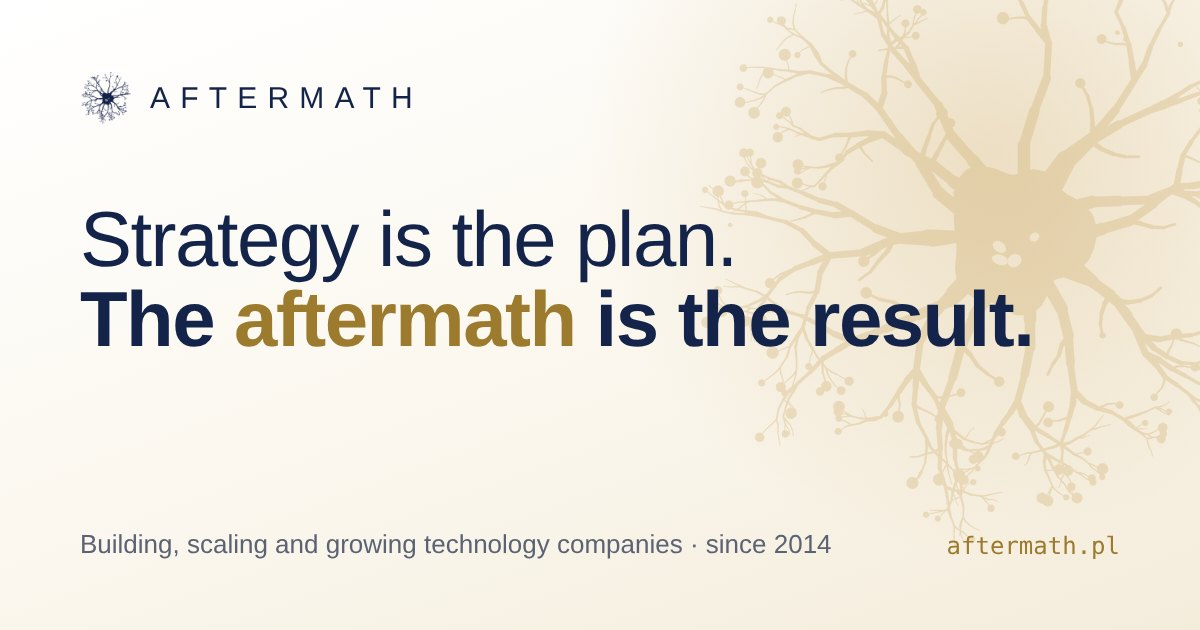
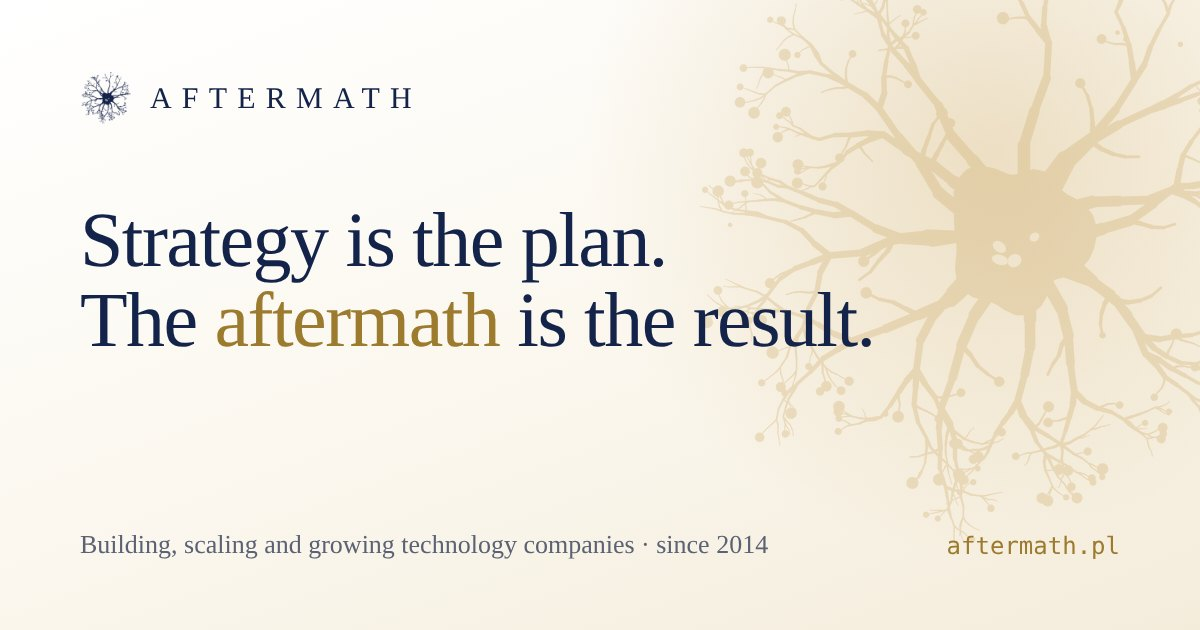
Podstrony i typografia Inter Tight

Changed region(s): [[0.0617, 0.3317, 0.8633, 0.573], [0.0617, 0.8444, 0.7092, 0.9048], [0.1233, 0.1206, 0.3392, 0.181]]

diff --git a/public/assets/site.css b/public/assets/site.css
@@ -302,3 +302,22 @@ footer .f-logo img{width:26px;height:26px}
 .article{scroll-margin-top:90px}
 .links a.m-only{display:none}
 @media (max-width:900px){.links a.m-only{display:block;color:var(--navy);font-weight:600}}
+
+/* ===== typography: Inter Tight, regular weights, no heavy display ===== */
+:root{--f-display:"Inter Tight","Helvetica Neue",Arial,system-ui,sans-serif;--f-body:"Inter Tight","Helvetica Neue",Arial,system-ui,sans-serif}
+body{font-size:17px;line-height:1.65;letter-spacing:.005em}
+h1,h2{letter-spacing:-.025em}
+h3{letter-spacing:-.01em}
+.hero h1{font-size:clamp(36px,4.8vw,66px);line-height:1.12;font-weight:400}
+.hero h1 b{font-weight:500}
+.hero h1 em{font-style:normal}
+.sec-head h2,.leader-body h2,.contact h2{font-size:clamp(28px,3.4vw,46px);line-height:1.15;font-weight:400}
+.sec-head h2 b,.leader-body h2 b,.contact h2 b,.page-head h1 b{font-weight:500}
+.page-head h1{font-size:clamp(32px,4.2vw,58px);line-height:1.12;font-weight:400}
+.contact h2 b{display:inline}
+.stat strong{font-weight:400;font-size:clamp(30px,3.4vw,42px)}
+.res strong{font-weight:400}
+.svc h3,.step h3,.princ h3,.post h3,.tile h3,.article h2{font-weight:500}
+.next a{font-weight:400}
+.eyebrow,.svc .tag,.tile small,.res small,.crumbs{font-family:var(--f-body);font-weight:500;letter-spacing:.16em}
+.lede{font-size:18px}

diff --git a/public/approach/index.html b/public/approach/index.html
@@ -18,7 +18,7 @@
 <meta name="twitter:card" content="summary_large_image">
 <link rel="preconnect" href="https://fonts.googleapis.com">
 <link rel="preconnect" href="https://fonts.gstatic.com" crossorigin>
-<link rel="stylesheet" href="https://fonts.googleapis.com/css2?family=Bricolage+Grotesque:opsz,wght@12..96,300;12..96,500;12..96,700;12..96,800&family=IBM+Plex+Sans:wght@400;500;600&family=IBM+Plex+Mono:wght@400;500&display=swap">
+<link rel="stylesheet" href="https://fonts.googleapis.com/css2?family=Inter+Tight:wght@400;500;600&family=IBM+Plex+Mono:wght@400;500&display=swap">
 <script type="application/ld+json">{"@context":"https://schema.org","@type":"ProfessionalService","name":"AFTERMATH","url":"https://aftermath.pl/","foundingDate":"2014","description":"AFTERMATH builds, scales and grows technology companies. Management as a Service, IT and product consulting, negotiations and leadership training.","founder":{"@type":"Person","name":"Adam Bugaj","sameAs":"https://www.linkedin.com/in/adambugaj"},"areaServed":["Europe","Middle East","Asia-Pacific","North America"]}</script>
 <link rel="stylesheet" href="../assets/site.css">
 </head>

diff --git a/public/contact/index.html b/public/contact/index.html
@@ -18,7 +18,7 @@
 <meta name="twitter:card" content="summary_large_image">
 <link rel="preconnect" href="https://fonts.googleapis.com">
 <link rel="preconnect" href="https://fonts.gstatic.com" crossorigin>
-<link rel="stylesheet" href="https://fonts.googleapis.com/css2?family=Bricolage+Grotesque:opsz,wght@12..96,300;12..96,500;12..96,700;12..96,800&family=IBM+Plex+Sans:wght@400;500;600&family=IBM+Plex+Mono:wght@400;500&display=swap">
+<link rel="stylesheet" href="https://fonts.googleapis.com/css2?family=Inter+Tight:wght@400;500;600&family=IBM+Plex+Mono:wght@400;500&display=swap">
 <script type="application/ld+json">{"@context":"https://schema.org","@type":"ProfessionalService","name":"AFTERMATH","url":"https://aftermath.pl/","foundingDate":"2014","description":"AFTERMATH builds, scales and grows technology companies. Management as a Service, IT and product consulting, negotiations and leadership training.","founder":{"@type":"Person","name":"Adam Bugaj","sameAs":"https://www.linkedin.com/in/adambugaj"},"areaServed":["Europe","Middle East","Asia-Pacific","North America"]}</script>
 <link rel="stylesheet" href="../assets/site.css">
 </head>

diff --git a/public/leadership/index.html b/public/leadership/index.html
@@ -18,7 +18,7 @@
 <meta name="twitter:card" content="summary_large_image">
 <link rel="preconnect" href="https://fonts.googleapis.com">
 <link rel="preconnect" href="https://fonts.gstatic.com" crossorigin>
-<link rel="stylesheet" href="https://fonts.googleapis.com/css2?family=Bricolage+Grotesque:opsz,wght@12..96,300;12..96,500;12..96,700;12..96,800&family=IBM+Plex+Sans:wght@400;500;600&family=IBM+Plex+Mono:wght@400;500&display=swap">
+<link rel="stylesheet" href="https://fonts.googleapis.com/css2?family=Inter+Tight:wght@400;500;600&family=IBM+Plex+Mono:wght@400;500&display=swap">
 <script type="application/ld+json">{"@context":"https://schema.org","@type":"ProfessionalService","name":"AFTERMATH","url":"https://aftermath.pl/","foundingDate":"2014","description":"AFTERMATH builds, scales and grows technology companies. Management as a Service, IT and product consulting, negotiations and leadership training.","founder":{"@type":"Person","name":"Adam Bugaj","sameAs":"https://www.linkedin.com/in/adambugaj"},"areaServed":["Europe","Middle East","Asia-Pacific","North America"]}</script>
 <link rel="stylesheet" href="../assets/site.css">
 </head>

diff --git a/public/news/index.html b/public/news/index.html
@@ -18,7 +18,7 @@
 <meta name="twitter:card" content="summary_large_image">
 <link rel="preconnect" href="https://fonts.googleapis.com">
 <link rel="preconnect" href="https://fonts.gstatic.com" crossorigin>
-<link rel="stylesheet" href="https://fonts.googleapis.com/css2?family=Bricolage+Grotesque:opsz,wght@12..96,300;12..96,500;12..96,700;12..96,800&family=IBM+Plex+Sans:wght@400;500;600&family=IBM+Plex+Mono:wght@400;500&display=swap">
+<link rel="stylesheet" href="https://fonts.googleapis.com/css2?family=Inter+Tight:wght@400;500;600&family=IBM+Plex+Mono:wght@400;500&display=swap">
 <script type="application/ld+json">{"@context":"https://schema.org","@type":"ProfessionalService","name":"AFTERMATH","url":"https://aftermath.pl/","foundingDate":"2014","description":"AFTERMATH builds, scales and grows technology companies. Management as a Service, IT and product consulting, negotiations and leadership training.","founder":{"@type":"Person","name":"Adam Bugaj","sameAs":"https://www.linkedin.com/in/adambugaj"},"areaServed":["Europe","Middle East","Asia-Pacific","North America"]}</script>
 <link rel="stylesheet" href="../assets/site.css">
 </head>

diff --git a/public/services/index.html b/public/services/index.html
@@ -18,7 +18,7 @@
 <meta name="twitter:card" content="summary_large_image">
 <link rel="preconnect" href="https://fonts.googleapis.com">
 <link rel="preconnect" href="https://fonts.gstatic.com" crossorigin>
-<link rel="stylesheet" href="https://fonts.googleapis.com/css2?family=Bricolage+Grotesque:opsz,wght@12..96,300;12..96,500;12..96,700;12..96,800&family=IBM+Plex+Sans:wght@400;500;600&family=IBM+Plex+Mono:wght@400;500&display=swap">
+<link rel="stylesheet" href="https://fonts.googleapis.com/css2?family=Inter+Tight:wght@400;500;600&family=IBM+Plex+Mono:wght@400;500&display=swap">
 <script type="application/ld+json">{"@context":"https://schema.org","@type":"ProfessionalService","name":"AFTERMATH","url":"https://aftermath.pl/","foundingDate":"2014","description":"AFTERMATH builds, scales and grows technology companies. Management as a Service, IT and product consulting, negotiations and leadership training.","founder":{"@type":"Person","name":"Adam Bugaj","sameAs":"https://www.linkedin.com/in/adambugaj"},"areaServed":["Europe","Middle East","Asia-Pacific","North America"]}</script>
 <link rel="stylesheet" href="../assets/site.css">
 </head>

diff --git a/public/track-record/index.html b/public/track-record/index.html
@@ -18,7 +18,7 @@
 <meta name="twitter:card" content="summary_large_image">
 <link rel="preconnect" href="https://fonts.googleapis.com">
 <link rel="preconnect" href="https://fonts.gstatic.com" crossorigin>
-<link rel="stylesheet" href="https://fonts.googleapis.com/css2?family=Bricolage+Grotesque:opsz,wght@12..96,300;12..96,500;12..96,700;12..96,800&family=IBM+Plex+Sans:wght@400;500;600&family=IBM+Plex+Mono:wght@400;500&display=swap">
+<link rel="stylesheet" href="https://fonts.googleapis.com/css2?family=Inter+Tight:wght@400;500;600&family=IBM+Plex+Mono:wght@400;500&display=swap">
 <script type="application/ld+json">{"@context":"https://schema.org","@type":"ProfessionalService","name":"AFTERMATH","url":"https://aftermath.pl/","foundingDate":"2014","description":"AFTERMATH builds, scales and grows technology companies. Management as a Service, IT and product consulting, negotiations and leadership training.","founder":{"@type":"Person","name":"Adam Bugaj","sameAs":"https://www.linkedin.com/in/adambugaj"},"areaServed":["Europe","Middle East","Asia-Pacific","North America"]}</script>
 <link rel="stylesheet" href="../assets/site.css">
 </head>

diff --git a/public/404.html b/public/404.html
@@ -18,7 +18,7 @@
 <meta name="twitter:card" content="summary_large_image">
 <link rel="preconnect" href="https://fonts.googleapis.com">
 <link rel="preconnect" href="https://fonts.gstatic.com" crossorigin>
-<link rel="stylesheet" href="https://fonts.googleapis.com/css2?family=Bricolage+Grotesque:opsz,wght@12..96,300;12..96,500;12..96,700;12..96,800&family=IBM+Plex+Sans:wght@400;500;600&family=IBM+Plex+Mono:wght@400;500&display=swap">
+<link rel="stylesheet" href="https://fonts.googleapis.com/css2?family=Inter+Tight:wght@400;500;600&family=IBM+Plex+Mono:wght@400;500&display=swap">
 <script type="application/ld+json">{"@context":"https://schema.org","@type":"ProfessionalService","name":"AFTERMATH","url":"https://aftermath.pl/","foundingDate":"2014","description":"AFTERMATH builds, scales and grows technology companies. Management as a Service, IT and product consulting, negotiations and leadership training.","founder":{"@type":"Person","name":"Adam Bugaj","sameAs":"https://www.linkedin.com/in/adambugaj"},"areaServed":["Europe","Middle East","Asia-Pacific","North America"]}</script>
 <link rel="stylesheet" href="/assets/site.css">
 </head>

diff --git a/public/index.html b/public/index.html
@@ -18,7 +18,7 @@
 <meta name="twitter:card" content="summary_large_image">
 <link rel="preconnect" href="https://fonts.googleapis.com">
 <link rel="preconnect" href="https://fonts.gstatic.com" crossorigin>
-<link rel="stylesheet" href="https://fonts.googleapis.com/css2?family=Bricolage+Grotesque:opsz,wght@12..96,300;12..96,500;12..96,700;12..96,800&family=IBM+Plex+Sans:wght@400;500;600&family=IBM+Plex+Mono:wght@400;500&display=swap">
+<link rel="stylesheet" href="https://fonts.googleapis.com/css2?family=Inter+Tight:wght@400;500;600&family=IBM+Plex+Mono:wght@400;500&display=swap">
 <script type="application/ld+json">{"@context":"https://schema.org","@type":"ProfessionalService","name":"AFTERMATH","url":"https://aftermath.pl/","foundingDate":"2014","description":"AFTERMATH builds, scales and grows technology companies. Management as a Service, IT and product consulting, negotiations and leadership training.","founder":{"@type":"Person","name":"Adam Bugaj","sameAs":"https://www.linkedin.com/in/adambugaj"},"areaServed":["Europe","Middle East","Asia-Pacific","North America"]}</script>
 <link rel="stylesheet" href="assets/site.css">
 </head>
